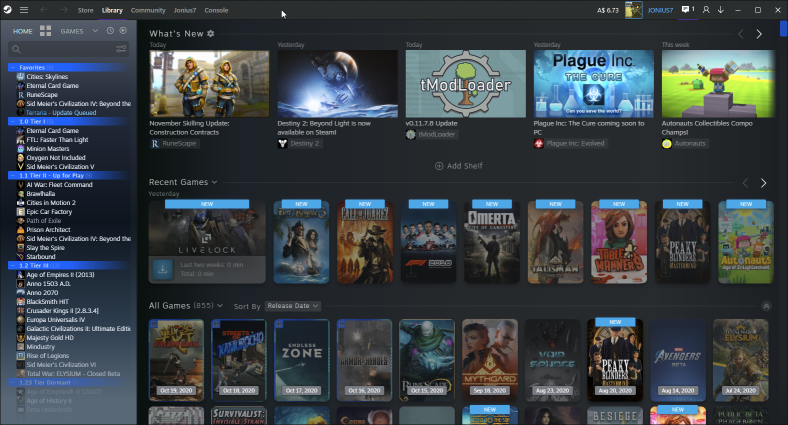
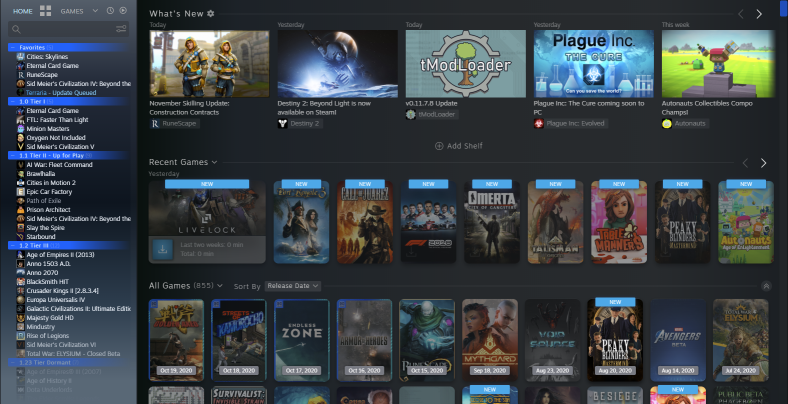
Theme selection for steam-library working, need to do the other 2 themes

diff --git a/themes/shiina.css b/themes/shiina.css
@@ -49,8 +49,4 @@
     background: linear-gradient(0deg, rgba(40, 41, 49, 0) 0%, rgba(51, 51, 51, 0.2) 35%, rgba(51, 51, 51, 0.5) 100%) !important;
 }
 
-:root {
-	--VerticalNavBarOffset: -140px !important; /* Compabitility for Vertical Nav Bar */
-}
-
 /* === END steam-library tweaks for SteamUI-OldGlory === */

diff --git a/backend.py b/backend.py
@@ -190,7 +190,7 @@ except FileNotFoundError:
 def is_css_patched():
     patched = False
     try:
-        with open(library_dir() + "\\css\\libraryroot.css") as f:
+        with open(library_dir() + "\\css\\libraryroot.css", newline='', encoding="UTF-8") as f:
             first_line = f.readline()
         if PATCHED_TEXT not in first_line:
             print("css\libraryroot.css not patched. Download SteamFriendsPatcher from\n" \
@@ -259,6 +259,9 @@ def validate_settings(settings):
             validated_settings.extend(["InstallWithDarkLibrary"])
     #print(validated_settings)
     return validated_settings
+
+### END
+###
 
 
 ###
@@ -450,21 +453,158 @@ def css_root_writer_example():
         file.write(line + OS_line_ending())
     file.close()
 '''
+### END
+###
+
+
 
 ###
-### Apply CSS Theme
+### APPLY CSS THEME Functions
+###
+
+BEFORE_THEME = {"shiina.css" :
+                {"start" : "DO NOT EDIT THESE !!! DO NOT EDIT THESE",
+                  "end" : "END steam-library tweaks for SteamUI-OldGlory"}
+                }
+
+
 ### Order: CSS before or after SteamUI-OldGlory's CSS
-def apply_css_theme(filename, order, patchtext):
+def apply_css_theme(theme_filename, order, patchtext):
     print("TODO apply Theme")
     #print(filename)
     #print(order)
+    #print(patchtext)
+    #print("LINE2")
+    theme_change_needed = remove_current_css_themes(theme_filename)
+    if theme_change_needed:
+        add_new_css_theme(theme_filename, order, patchtext)
 
-def remove_current_css_themes():
-    print("TODO")
-def add_new_css_theme():
-    print("TODO")
 
-    
+def remove_current_css_themes(theme_filename):
+    try:
+        ### This is specifically for steam-library(shiina) or any theme that adds CSS "before"
+        ### Would want a rewrite with some better conditional code
+        with open("libraryroot.custom.css", "r", newline='', encoding="UTF-8") as f, \
+             open("libraryroot.custom.theme.css", "w", newline='', encoding="UTF-8") as f1:
+            to_remove = 0
+            last_line = 0
+            no_change = False #If False, theme will be added in add_new_css_theme.
+            for line in f:
+                if last_line == 1 and line.strip(' ') != OS_line_ending():
+                    to_remove = 0
+                    last_line = 0
+                
+                for theme in BEFORE_THEME:
+                    if theme_filename not in theme: 
+                        if BEFORE_THEME[theme]["start"] in line:
+                            #print("ROUND 1")
+                            to_remove = 1
+                            print("Removing existing themes in libraryroot.custom.css...")
+                        elif BEFORE_THEME[theme]["end"] in line:
+                            last_line = 1
+                            #print("ROUND 2")                        
+                    elif theme_filename in theme: #if theme to apply is already in file, skip removing
+                        no_change = True
+                    
+                if to_remove == 0:
+                    f1.write(line)
+        f.close()
+        f1.close()
+
+        ###
+        shutil.move("libraryroot.custom.css", "libraryroot.custom.css.backup")
+        shutil.move("libraryroot.custom.theme.css", "libraryroot.custom.css")
+
+        return no_change
+
+            
+    except:
+        print("libraryroot.css not found", file=sys.stderr)
+        
+def add_new_css_theme(theme_filename, order, patchtext):
+    try:
+        if order == "before":
+            print("BEFORE")
+            with open("libraryroot.custom.css", "r", newline='', encoding="UTF-8") as f, \
+                 open("themes\\" + theme_filename, "r", newline='', encoding="UTF-8") as ft, \
+                 open("libraryroot.custom.theme.css", "w", newline='', encoding="UTF-8") as f1:
+                for line in ft:
+                    f1.write(line)
+                f1.write(OS_line_ending())
+                for line in f:
+                    f1.write(line)
+            f.close()
+            ft.close()
+            f1.close()
+            
+            ###
+            shutil.move("libraryroot.custom.css", "libraryroot.custom.css.backup")
+            shutil.move("libraryroot.custom.theme.css", "libraryroot.custom.css")
+
+            ###
+            if theme_filename == "shiina.css":
+                steam_library_compat_config()
+            
+            
+        elif order == "after":
+            '''
+            with open("libraryroot.custom.css", "r", newline='', encoding="UTF-8") as f, \
+                 open("themes\\" + theme_filename, "r", newline='', encoding="UTF-8") as ft \
+                 open("libraryroot.custom.theme.css", "w", newline='', encoding="UTF-8") as f1:
+
+            '''
+            patch_html(theme_filename)
+
+            
+    except:
+        print("Error applying theme from " + theme_filename, file=sys.stderr)
+        print("~~~~~~~~~~")
+        print(traceback.print_exc(), file=sys.stderr)
+        print("~~~~~~~~~~")
+
+
+def patch_html(theme_filename):
+    print("TODO patchhtml")
+    try:
+        with open(library_dir() + "\\index.html", "r", newline='', encoding="UTF-8") as f, \
+             open("index.theme.html", "w", newline='', encoding="UTF-8") as f1:
+            first_line = f.readline()
+            second_line = f.readline()
+        if first_line == "<!doctype html>" + OS_line_ending() and \
+           second_line == "<html style=\"width: 100%; height: 100%\">" + OS_line_ending():
+            print("Original HTML file detected.")
+            shutil.copy2(library_dir() + "\\" + "index.html", "index.html.original")
+            ### return to start
+            f.seek(0)
+            #os.stat("index.html.originaly").st_size
+            for line in f:
+                if line.lstrip == "<script src=\"library.js\"></script>":
+                    f1.write(line + href_rel_stylesheet(theme_filename))
+                else:
+                    f1.write(line.rstrip())            
+        else:
+            print("Patched HTML file detected.")
+            print(os.stat("index.html").st_size)
+        f.close()
+        f1.close()
+    except:
+        print("Error configuring index.html", file=sys.stderr)
+        print("~~~~~~~~~~")
+        print(traceback.print_exc(), file=sys.stderr)
+        print("~~~~~~~~~~")
+
+
+def href_rel_stylesheet(href):
+    return '<link href=\"themes/' + href + '\" rel=\"stylesheet\">'
+
+
+def steam_library_compat_config():
+    print("TODO find and replace config.css")
+
+### END 
+### 
+
+
 
 ###
 ### JS functions (fixes.txt)

diff --git a/old_glory.py b/old_glory.py
@@ -171,10 +171,11 @@ class StartPage(tk.Frame):
         mainoption5.grid(row=4, column=1, sticky=W)
 
         ######
+        self.change_theme = 0
         self.var6 = tk.IntVar()
         check6 = ttk.Checkbutton(frameCheck,
-                                 state='disabled',
                                  variable=self.var6)
+        check6.bind("<Button-1>", lambda event: self.setChangeTheme(event))
         check6.grid(row=5, column=0)
         ###
         mo6 = MainOption(
@@ -282,6 +283,8 @@ class StartPage(tk.Frame):
         return getattr(self, getter)
     def getTextArea(self, getter):
         return getattr(self, getter)
+    def setChangeTheme(self, event):
+        self.change_theme = 1
 
 class PageOne(tk.Frame):
     def __init__(self, parent, controller):
@@ -578,16 +581,11 @@ THEME_MAP = {"steam-library (Shiina)" :
                   "end" : "END CSS for Acrylic Theme"}}
              }
 
-def dropdown_click(event,page):
+def dropdown_click(event, page):
     theme_name = event.widget.get()
     if theme_name in THEME_MAP:
         #change_image
-        change_image(page.image1, resource_path("theme_" + THEME_MAP[theme_name]["filename"][0:-4] + ".png"))
-        backend.apply_css_theme(THEME_MAP[theme_name]["filename"],
-                                THEME_MAP[theme_name]["order"],
-                                THEME_MAP[theme_name]["patchtext"])
-
-  
+        change_image(page.image1, resource_path("theme_" + THEME_MAP[theme_name]["filename"][0:-4] + ".png"))  
         
 ### INSTALL Functions
 ### ================================
@@ -618,8 +616,7 @@ def install_click(event, page, controller):
     apply_settings_from_gui(page, controller, settings_to_apply, settings_values)
     backend.write_config(settings_values)
     #add/remove theme
-    print("WAYEO")
-    print(controller.frames[StartPage].dropdown6.get())
+    apply_css_theme(controller.frames[StartPage])
     
     #reset state of js gui to "unchanged"
     controller.js_gui_changed = 0
@@ -738,6 +735,19 @@ def run_js_tweaker(text_area):
               
     except Exception as e:
         print(e, file=sys.stderr)
+
+
+def apply_css_theme(page):
+    if page.var6.get() == 1:
+        theme_name = page.dropdown6.get()
+        print("Applying CSS Theme: " + theme_name)
+        backend.apply_css_theme(THEME_MAP[theme_name]["filename"],
+                            THEME_MAP[theme_name]["order"],
+                            THEME_MAP[theme_name]["patchtext"])
+    elif page.var6.get() == 0 and page.change_theme == 1:
+        backend.remove_current_css_themes("no_themes.css")
+        print("Cleared current CSS Themes")
+    page.change_theme = 0
 
 def update_loaded_config(page):
     #update loaded_config on Install click

diff --git a/tests_backend.py b/tests_backend.py
@@ -42,10 +42,19 @@ class TestCSSLineParser(unittest.TestCase):
              "current" : "ace",
              "desc" : "DSet to none to hide What's New"})
     '''
-
+    '''
     def test_run_fixes_modify(self):
         a, b = backend.load_js_fixes()
         backend.write_js_fixes(a, b)
+    '''
+    def test_write_before_theme(self):
+        backend.add_new_css_theme("shiina.css", "before", {"start" : "DO NOT EDIT THESE !!! DO NOT EDIT THESE",
+                  "end" : "END steam-library tweaks for SteamUI-OldGlory"})
+
+    def test_write_after_theme(self):
+        backend.add_new_css_theme("acrylic.css", "after", {"start" : "DO NOT EDIT THESE !!! DO NOT EDIT THESE",
+                  "end" : "END steam-library tweaks for SteamUI-OldGlory"})
+        
 
 if __name__ == '__main__':
     unittest.main()
